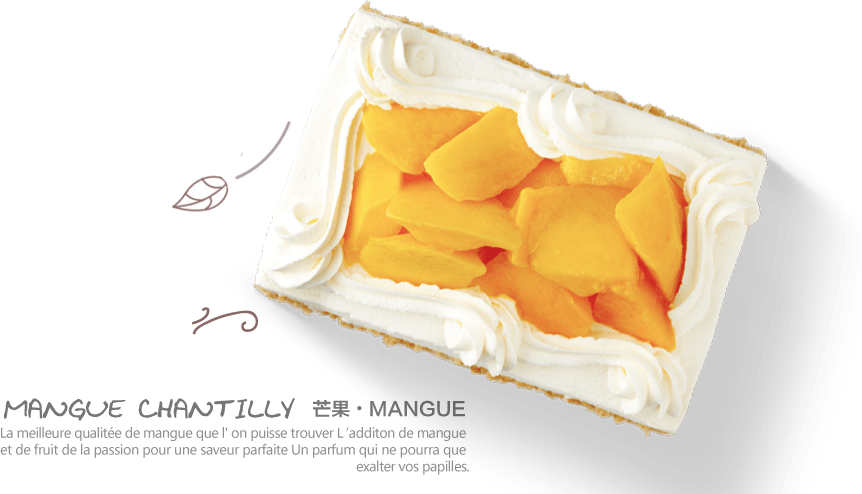
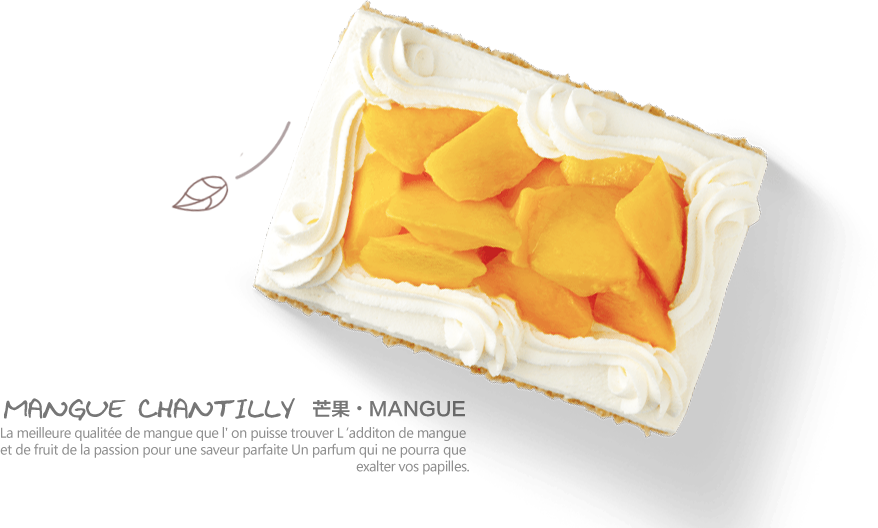
no message

diff --git a/src/quqi/banner.html b/src/quqi/banner.html
@@ -16,7 +16,7 @@
     .evt_main .fly{width:726px; bottom:0; left:476px;}
     .evt_main .title{width:488px; top:246px; left:38px;}
     .evt_main .cookie{width:479px; top:528px; left:144px;}
-    .evt_main .cake{width:862px; top:332px; left:647px;}
+    .evt_main .cake{width:878px; top:332px; left:647px;}
     .evt_main .cloud1{width:240px; top:123px; left:408px;}
     .evt_main .cloud2{width:371px; top:144px; left:1154px;}
 </style>
